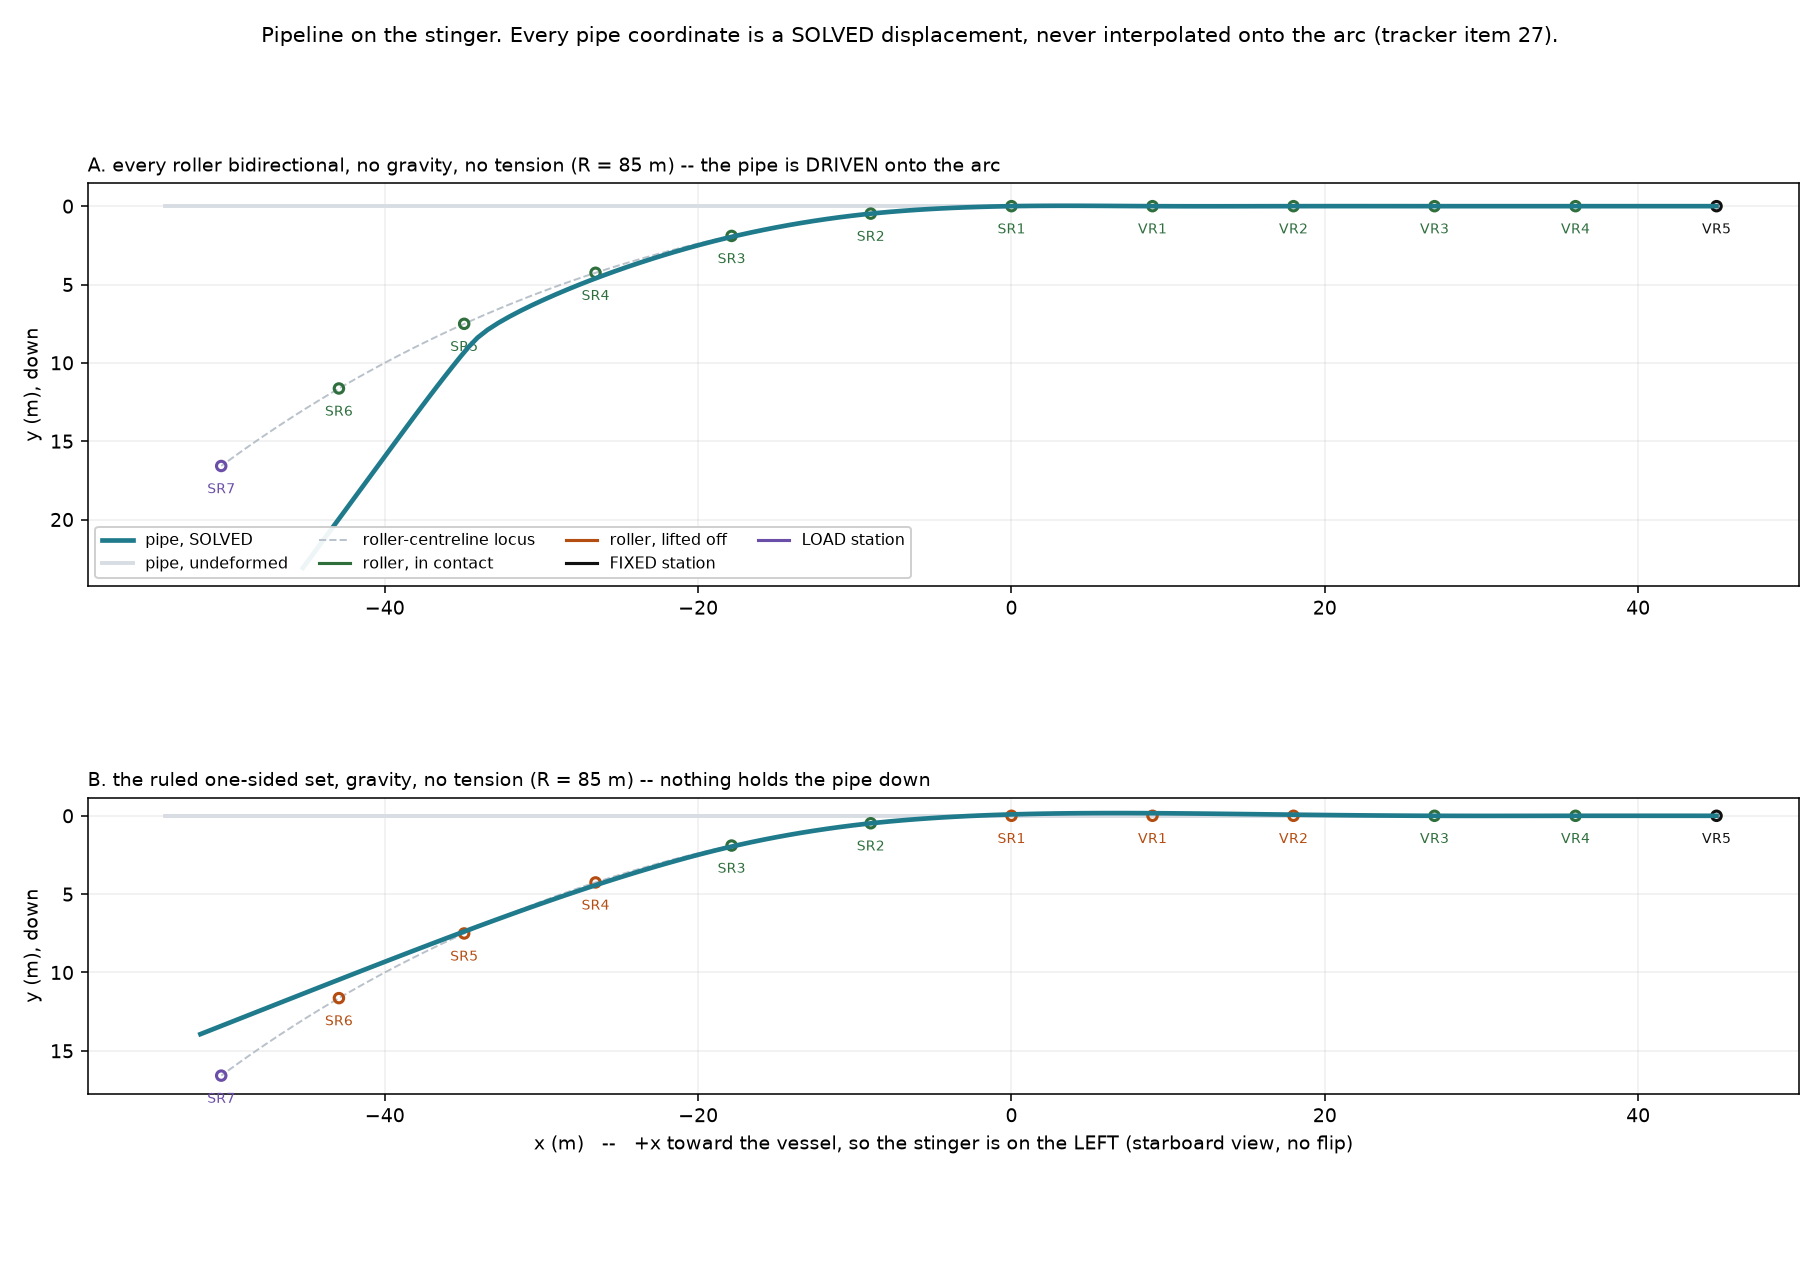
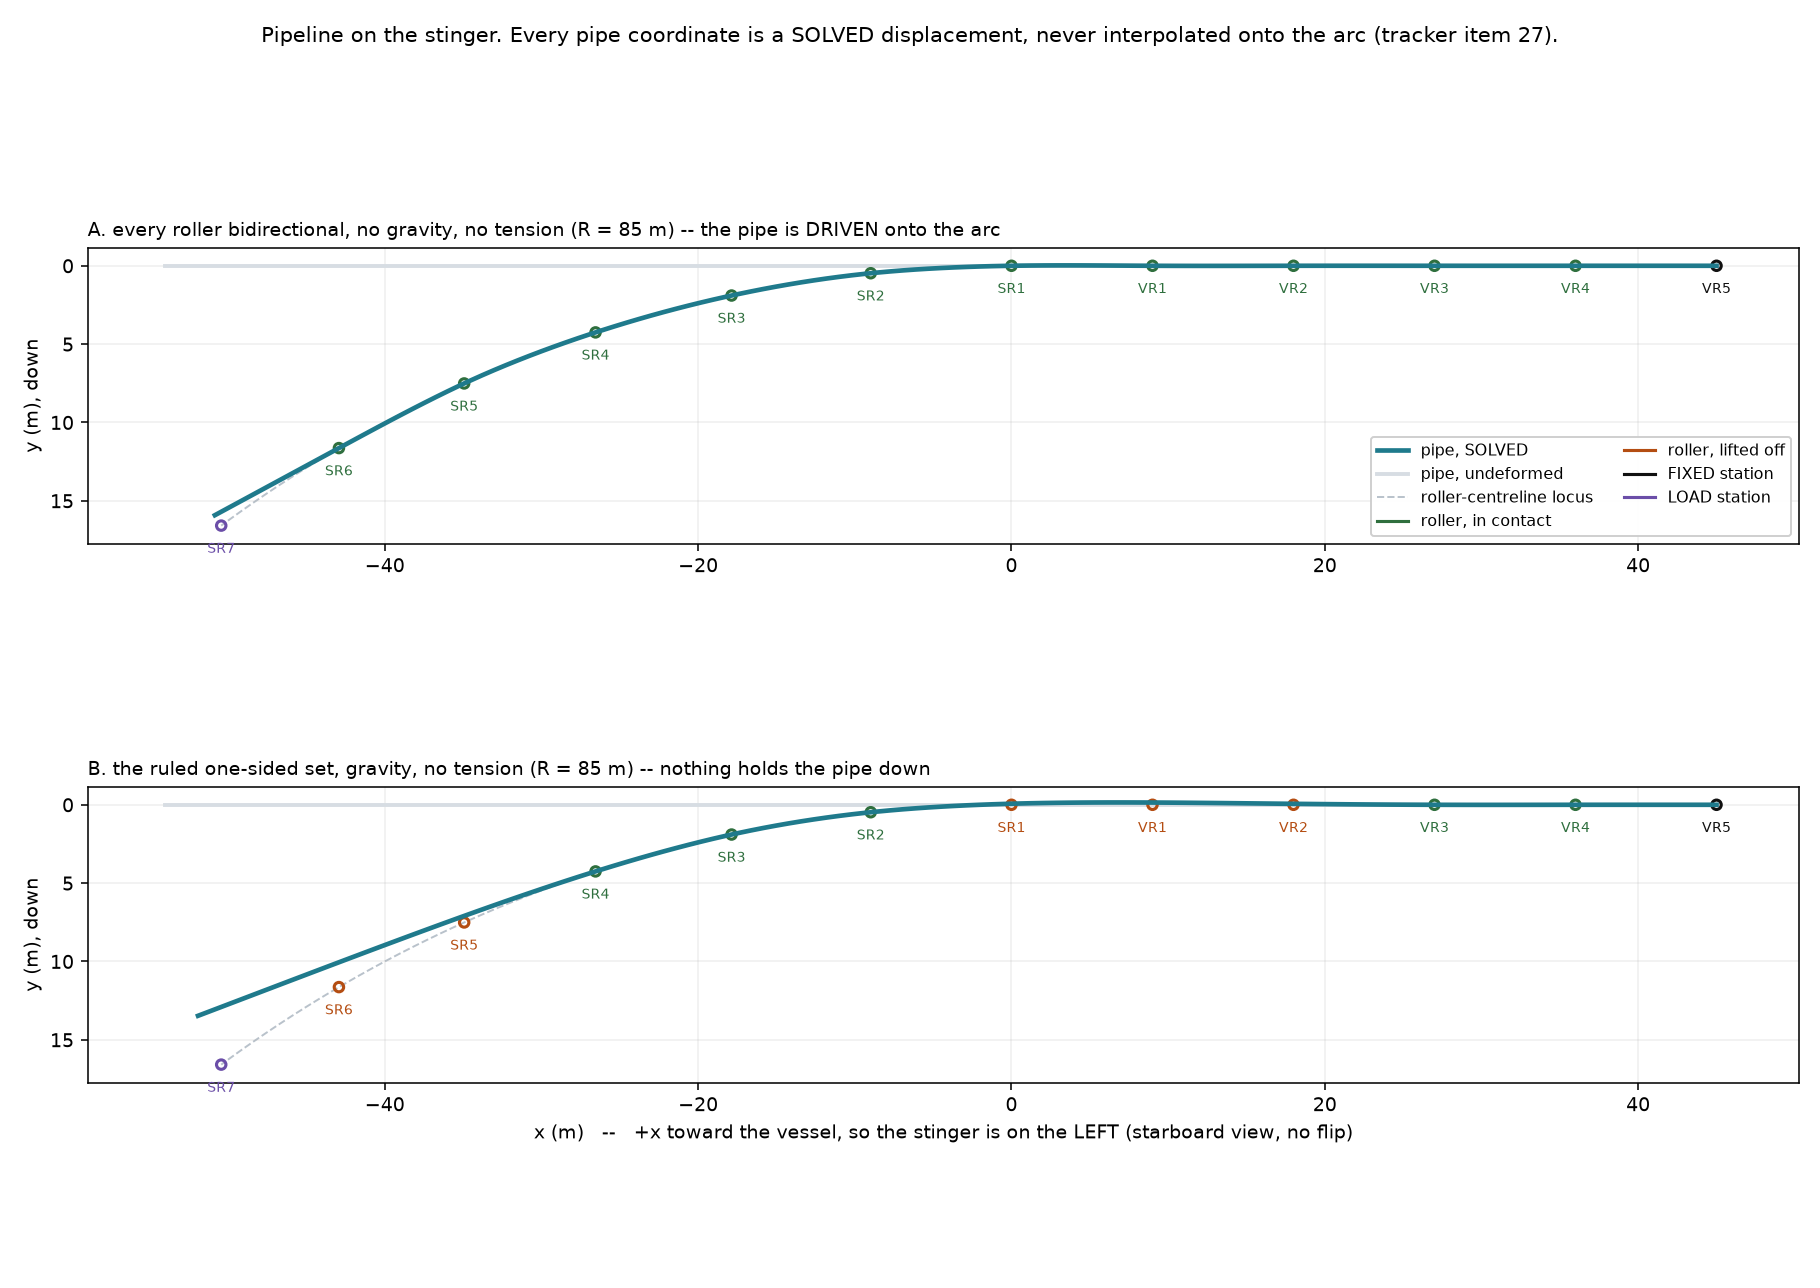
Fix L048: contact normals were world vectors on model DOFs
The stinger plot showed the material point that should sit at SR6 ending
up 5.18 m from the arc while every contact target was met to 1e-13 m.

`scene` speaks world (+x toward the vessel); `model`, `physics` and
`solve` speak model (s toward the stinger, x_world = -(s + u_s)).
`LayPath.normal` returns a world vector and `contact_targets` handed it
straight to the solver as coefficients on (u_s, u_y), so the s component
had the wrong sign. The reference program has no such boundary -- its
nodal coordinate IS world x -- so the formula was right there and wrong
here.

`dn` is invariant under the error, because both factors flip, which is
why the target matched to machine precision and every existing check
passed. Only a statement the constraint does not supply could catch it:
under arc-length positioning the material point at arc s must land at
path.position(s).

- physics/contact.py: `to_model_frame`, the one place a world vector
  becomes a model coefficient
- tests/test_passage.py: the arc-position check; fails by 0.037 m at SR2
  with the conversion removed
- tools/plot_stinger.py: prints the arc table beside the residual table
- BUILD_LESSONS: L047 rewritten (its first diagnosis was wrong), L048 added
- T5 spec 5b rewritten; the stale gravity-only table in 5 marked superseded

Gravity-only peak strain now falls with stinger radius as it must:
0.3365 / 0.2751 / 0.2099 % at R = 70 / 85 / 105, against
0.2617 / 0.2704 / 0.2428 % before. Amplification over D/2R is
[…]

diff --git a/rebuild/slay/physics/contact.py b/rebuild/slay/physics/contact.py
@@ -13,9 +13,21 @@ DERIVED, not copied. Node reference positions are set by ARC LENGTH (item
 16's ruling), so the straight reference pipe continues along the deck line
 and the material point at arc `s` must travel to `path.position(s)`:
 
-    u = (R*theta - R*sin(theta),  R*(1 - cos(theta)))
-    n = (-sin(theta), -cos(theta))
+    u = (-(R*theta - R*sin(theta)),  R*(1 - cos(theta)))
+    n = (sin(theta), -cos(theta))
     dn = u . n = R*(1 - cos - theta*sin)
+
+BOTH VECTORS ARE IN THE MODEL FRAME, and that is the whole of lesson L048.
+`scene` speaks WORLD (`x` toward the vessel); `model`, `physics` and `solve`
+speak MODEL (`s` toward the stinger, `x_world = -(s + u_s)`). A normal read
+off the Scene is a world vector, and these coefficients multiply MODEL DOFs,
+so the `s` component flips sign and `y` does not -- `to_model_frame` below,
+the single place it happens. The reference program had no such boundary: its
+nodal coordinate IS world `x` (`slay_sliding_v0_4.py:235`, "decreasing with
+node id"), so its `nx = -sin(theta)` was right there and is wrong here. `dn`
+is unchanged either way -- flipping both `u_s` and `n_s` leaves the product
+alone -- which is exactly why the error survived a target that matched to
+machine precision.
 
 The old formula `dn = arc_y * ny` is NOT a general projection. It is the same
 dot product with the `ux*nx` term silently zero, which held only because
@@ -81,7 +93,7 @@ class ContactTarget:
     station: str
     s_material: float          # m, arc position on the pipe
     theta: float               # rad, turn angle at the station
-    normal: tuple              # unit vector, roller -> pipe
+    normal: tuple              # unit vector, roller -> pipe, MODEL frame
     dn: float                  # m, target normal displacement
     dn_arc: float              # m, the arc term alone
     lift: float                # m, centreline lift from the contact surface
@@ -113,9 +125,22 @@ def arc_target_by_projection(path, s: float) -> float:
     if s <= 0.0:
         return 0.0
     x, y = path.position(s)
-    ux, uy = x - (-s), y - 0.0          # straight reference along the deck
-    nx, ny = path.normal(s)
+    # MODEL frame, deliberately -- this checks the vector the solver is
+    # handed, not a world-frame twin of it that agrees by cancellation.
+    ux, uy = -(x - (-s)), y - 0.0       # straight reference along the deck
+    nx, ny = to_model_frame(path.normal(s))
     return ux * nx + uy * ny
+
+
+def to_model_frame(n) -> tuple:
+    """A world normal from `scene` -> coefficients on MODEL DOFs.
+
+    `x_world = -(s + u_s)`, so a world `x` component is an `s` component
+    with the sign flipped; `y` is shared by both frames and is untouched.
+    Every contact coefficient crosses this boundary and crosses it here.
+    """
+    nx, ny = n
+    return (-nx, ny)
 
 
 def _bracket(nodes_s, s: float):
@@ -197,7 +222,8 @@ def contact_targets(model, scene, assembly=None, shift: float = 0.0,
         i_lo, i_hi, w_lo, w_hi = _bracket(nodes_s, s_mat)
         out.append(ContactTarget(
             station=st.name, s_material=s_mat, theta=theta,
-            normal=st.normal, dn=dn_arc + lift, dn_arc=dn_arc, lift=lift,
+            normal=to_model_frame(st.normal), dn=dn_arc + lift,
+            dn_arc=dn_arc, lift=lift,
             surface_owner=owner, n_lo=i_lo, n_hi=i_hi, w_lo=w_lo, w_hi=w_hi,
             one_sided=st.one_sided, radius=st.radius))
     return out

diff --git a/tools/plot_stinger.py b/tools/plot_stinger.py
@@ -95,7 +95,7 @@ def undeformed_xy(m):
             np.array([at[i].y for i in ids]))
 
 
-def report(sc, p, r, slots):
+def report(sc, p, r, slots, ms):
     """The numbers behind the picture -- printed, because a plot cannot be
     checked by eye and the question being asked is whether it is right."""
     print(f'  status {r.status}   increments {r.increments}   '
@@ -112,6 +112,26 @@ def report(sc, p, r, slots):
         if st.role is not StationRole.CONTACT:
             print(f'  {st.name:>8}{st.role.value:>9}'
                   f'{"":>9}{"":>11}{"":>11}{"":>11}{"":>8}')
+    arc_table(sc, p, r, ms)
+
+
+def arc_table(sc, p, r, ms):
+    """THE INDEPENDENT CHECK (L047). Node reference positions are set by arc
+    length, so the material point at arc `s` must land at `path.position(s)`.
+    That statement owes nothing to the contact residual, which reports on the
+    normal direction alone -- which is exactly how a mirrored normal (L048)
+    hid behind targets met to 1e-13 m."""
+    print(f'\n  {"station":>8}{"s_mat":>9}{"arc_x":>10}{"arc_y":>10}'
+          f'{"pipe_x":>10}{"pipe_y":>10}{"miss":>9}')
+    for t in p.contacts:
+        us = sum(w * r.U[dof(ms, i, 0)]
+                 for i, w in ((t.n_lo, t.w_lo), (t.n_hi, t.w_hi)))
+        uy = sum(w * r.U[dof(ms, i, 1)]
+                 for i, w in ((t.n_lo, t.w_lo), (t.n_hi, t.w_hi)))
+        x, y = world(t.s_material, 0.0, us, uy)
+        ax, ay = sc.path.position(t.s_material)
+        print(f'  {t.station:>8}{t.s_material:9.2f}{ax:10.3f}{ay:10.3f}'
+              f'{x:10.3f}{y:10.3f}{math.hypot(x - ax, y - ay):9.4f}')
 
 
 def plot(cases, out):
@@ -171,7 +191,7 @@ def plot(cases, out):
             ('roller, lifted off', '#b44d12', 1.6, '-'),
             ('FIXED station', '#111111', 1.6, '-'),
             ('LOAD station', '#6b4ea8', 1.6, '-'))],
-        fontsize=8, ncol=4, loc='lower left', framealpha=0.93)
+        fontsize=8, ncol=2, loc='lower right', framealpha=0.93)
     axes[-1].set_xlabel('x (m)   --   +x toward the vessel, so the stinger '
                         'is on the LEFT (starboard view, no flip)')
 
@@ -202,7 +222,7 @@ def main() -> int:
     ):
         print(f'\n=== {title} ===')
         c = case(R=R, **kw)
-        report(c[0], c[2], c[3], c[5])
+        report(c[0], c[2], c[3], c[5], c[4])
         built.append((title, c))
     plot(built, out)
     return 0

diff --git a/rebuild/tests/test_passage.py b/rebuild/tests/test_passage.py
@@ -29,7 +29,7 @@ from slay.scene.rollers import roller_stations      # noqa: E402
 from slay.scene.scene import Scene                  # noqa: E402
 from slay.solve import contact as ctc               # noqa: E402
 from slay.solve import passage                      # noqa: E402
-from slay.solve.kernel import mesh_of_problem       # noqa: E402
+from slay.solve.kernel import dof, mesh_of_problem  # noqa: E402
 
 
 def _scene(R=85.0, one_sided=None, n_sr=6, n_vr=3, spacing=8.0, elastic=16.0):
@@ -110,6 +110,36 @@ def test_slots_constrain_the_normal_only(arc_case):
         assert s.coeffs == pytest.approx(
             (t.w_lo * nx, t.w_lo * ny, t.w_hi * nx, t.w_hi * ny))
         assert math.hypot(nx, ny) == pytest.approx(1.0)
+
+
+def test_the_material_point_lands_on_its_own_arc_station(arc_case):
+    """THE CHECK L047 ASKED FOR, and the one that caught L048.
+
+    A contact slot holds the NORMAL component only, so a converged residual
+    is evidence about one direction. This is the independent statement:
+    node reference positions are set by ARC LENGTH, so the material point at
+    arc `s` must end up at `path.position(s)` -- position, both components,
+    no projection, nothing the constraint itself supplies.
+
+    It fails by METRES when the contact normal is a world vector applied to
+    model DOFs (L048): 2.21 m at SR6 with every target met to 1e-13. What is
+    left is real -- discrete supports 8 m apart let the pipe sag a couple of
+    millimetres between them, and it is bounded by span, not by R.
+    """
+    sc, p, r, _st, ms = arc_case
+    worst = 0.0
+    for t in p.contacts:
+        s_mat = t.s_material
+        us = sum(w * r.U[dof(ms, i, 0)]
+                 for i, w in ((t.n_lo, t.w_lo), (t.n_hi, t.w_hi)))
+        uy = sum(w * r.U[dof(ms, i, 1)]
+                 for i, w in ((t.n_lo, t.w_lo), (t.n_hi, t.w_hi)))
+        x, y = -(s_mat + us), uy
+        ax, ay = sc.path.position(s_mat)
+        miss = math.hypot(x - ax, y - ay)
+        assert miss < 5e-3, f'{t.station}: {miss:.4f} m off its own arc point'
+        worst = max(worst, miss)
+    assert worst > 1e-5, 'sag between supports is real; zero means no solve'
 
 
 # -- the active set --------------------------------------------------------

diff --git a/docs/modules/T5_solve_spec.md b/docs/modules/T5_solve_spec.md
@@ -190,6 +190,11 @@ and gravity alone.
 | 85 m | 0.2704% | 0.2391% | +13.1% | 4/10 |
 | 105 m | 0.2428% | 0.1935% | +25.5% | 5/10 |
 
+> **SUPERSEDED by §5b.** Those figures carried defect L048. The corrected
+> run is 0.3365 / 0.2751 / 0.2099, which does fall with R. The paragraph
+> below was right that they were "a different problem" and wrong about which
+> one.
+
 **Those are not a near-miss of the benchmark; they are a different problem.**
 Absolute strain barely moves with R (0.24–0.27%) when it should fall, and
 only four or five of ten rollers carry. With no tension the one-sided stinger
@@ -224,65 +229,101 @@ a well-defined piece of work, not a search.
 
 ---
 
-## 5b. The pipe is not sitting on the stinger — shown, 21 Sep 2026
+## 5b. The pipe was not sitting on the stinger — found and FIXED, 21 Sep 2026
 
 `tools/plot_stinger.py`, `docs/diagrams/stinger_pipe.png`. The first figure
 in this project that draws the SOLVED pipe. `draw_layout.py` renders the
 Scene and deliberately draws no pipe, because tracker item 27 forbids a
 drawing that derives the pipe's shape from the arc formula. Every coordinate
 here is a solved displacement, so the rule is satisfied and the figure is
-allowed — and the first thing it shows is a defect.
+allowed — and the first thing it showed was a defect.
 
-### Two facts that cannot both be comfortable
+### Two facts that could not both be comfortable
 
-Every contact target is met to **1e-13 m** — and the material point that
-should sit at SR6 ends up **5.2 m away from the arc**.
+Every contact target was met to **1e-13 m** — and the material point that
+should sit at SR6 ended up **5.18 m** from the arc. Under arc-length node positioning the material point at arc
+`s` must land at `path.position(s)`: bending is inextensible to first order,
+which is item 16's whole argument. Every row of that table should be zero.
 
-Pure-arc case, R = 85 m, all rollers bidirectional, no gravity, no tension.
-"Slide" is the miss resolved along the path tangent:
+Pure-arc case, R = 85 m, 9 m spacing, all rollers bidirectional, no gravity,
+no tension. Miss = distance from the material point to its own arc point:
 
-| station | arc (x, y) | solved (x, y) | miss dx | miss dy | slide |
-|---|---|---|---|---|---|
-| VR5 (fixed) | 45.000, 0.000 | 45.000, −0.000 | 0.000 | 0.000 | 0.000 |
-| VR1 | 9.000, 0.000 | 9.389, 0.002 | +0.389 | +0.002 | +0.389 |
-| SR1 | −0.000, 0.000 | 0.401, −0.007 | +0.401 | −0.007 | +0.401 |
-| SR3 | −17.866, 1.899 | −18.238, 2.047 | −0.372 | +0.148 | −0.333 |
-| SR4 | −26.548, 4.252 | −26.816, 4.711 | −0.268 | +0.459 | −0.111 |
-| SR5 | −34.933, 7.510 | −34.644, 8.980 | +0.289 | **+1.470** | +0.868 |
-| SR6 | −42.927, 11.636 | −40.014, 15.997 | **+2.913** | **+4.361** | **+4.717** |
-| SR7 (load) | −50.440, 16.584 | −45.226, 23.087 | +5.214 | +6.504 | +8.056 |
+| station | s | miss BEFORE | miss AFTER |
+|---|---|---|---|
+| VR1 | −9 | 0.0011 | 0.0001 |
+| SR1 | 0 | 0.0012 | 0.0003 |
+| SR2 | 9 | 0.0043 | 0.0012 |
+| SR3 | 18 | 0.0599 | 0.0005 |
+| SR4 | 27 | 0.3364 | 0.0008 |
+| SR5 | 36 | 1.3230 | 0.0005 |
+| SR6 | 45 | **5.1797** | **0.0023** |
 
-Under arc-length node positioning the material point at arc `s` is supposed
-to land at `path.position(s)` — bending is inextensible to first order, which
-is item 16's whole argument. Every row here should be zero. They are not, and
-the error grows monotonically down the stinger.
+(The `arc_table` the tool now prints. At the 8 m spacing the test fixture
+uses, the same case reads 2.212 m at SR6 before and 0.0027 m after.)
 
-### What that means
+### The cause: a world vector used as model coefficients
 
-The constraint being satisfied is **not the constraint that puts the pipe on
-the stinger**. Each slot fixes the NORMAL component of an interpolated
-displacement and leaves the tangent free — by design, because a material
-point genuinely slides ~2 m over the rollers by SR6. But with one restraint
-in the whole model (VR5, all DOF) and no tension, nothing makes the
-tangential position determinate. The free direction absorbs metres of motion
-and the residual stays at 1e-13 throughout, because it is measuring the one
-direction that is held.
+`scene` speaks WORLD — `+x` toward the vessel. `model`, `physics` and `solve`
+speak MODEL — `s` toward the stinger, `x_world = -(s + u_s)`.
+`LayPath.normal` returns a world vector, correctly for a Scene quantity, and
+`contact_targets` handed it straight to the solver as the coefficients
+multiplying `(u_s, u_y)`. **The `s` component had the wrong sign.**
 
-**The boundary conditions are the problem, and the benchmark's tension is
-part of them.** Lay tension at the catenary end is not decoration on this
-case: it is what pulls the pipe taut along the path and makes the tangential
-position determinate. Panel B of the figure shows the other half of the same
-story — with the ruled one-sided set and gravity but no tension, six of ten
-rollers lift off and the pipe bridges from SR3 straight past the stinger tip.
+The reference program has no such boundary to cross: its nodal coordinate IS
+world `x` (`slay_sliding_v0_4.py:235`, *"decreasing with node id"*), so its
+`nx = -sin(theta)` is right there. Copied across the frame change, it is
+wrong here.
 
-This is the same conclusion as §5's load-path finding, reached independently
-and now visible rather than argued. It does not change the next task; it
-raises its priority and says what to check when the staged steps land: every
-row of the table above should go to zero.
+**Why it survived every check until this one.** `dn` is invariant under the
+error — flipping both `u_s` and `n_s` leaves the dot product alone — so the
+target was right, and a constraint enforcing the *wrong* normal to 1e-13 m
+looks exactly like a constraint enforcing the right one. The residual reports
+on the constrained direction and nothing else. Only a statement the
+constraint does not supply could catch it, and the arc position is that
+statement.
+
+The first diagnosis written in this section was **wrong**: it read the miss
+as tangential indeterminacy for want of lay tension, and argued the boundary
+conditions were incomplete. The fix carries no tension and the miss drops to
+2.7 mm. Recorded as L047 (the check) and L048 (the defect).
+
+Fix: `physics.contact.to_model_frame`, the one named place a world vector
+becomes a model coefficient. Guarded by
+`test_the_material_point_lands_on_its_own_arc_station`, which fails by
+0.037 m at SR2 with the conversion removed.
+
+### What the figure shows now
+
+Panel A — all rollers bidirectional, no gravity, no tension — the solved pipe
+lies on the roller-centreline locus, covering it. Panel B — the ruled
+one-sided set with gravity and no tension — VR2, VR1, SR1, SR5 and SR6 lift
+off, and **every nonzero miss in panel B is at a released roller**. That is
+consistent physics rather than a defect: a one-sided roller cannot pull, so
+with no tension the pipe hangs inside the arc past SR4. It is also the second
+half of §5's argument for why the benchmark applies 120 MT.
+
+### What it changed in the numbers
+
+Gravity only, no tension, 9 m spacing, peak Phase-1 strain:
+
+| R | BEFORE | AFTER | analytic `D/2R` | AFTER over analytic |
+|---|---|---|---|---|
+| 70 m | 0.2617% | **0.3365%** | 0.2903% | +15.9% |
+| 85 m | 0.2704% | **0.2751%** | 0.2391% | +15.1% |
+| 105 m | 0.2428% | **0.2099%** | 0.1935% | +8.5% |
+
+Before the fix, absolute strain barely moved with stinger radius and the
+amplification ran −9.8 / +13.1 / +25.5% — §5 called that "not a near-miss of
+the benchmark; a different problem", and it was. **After the fix strain falls
+with R as it must**, and the amplification is +16 / +15 / +9%, in the band
+the old program occupies against Abaqus (§4).
+
+The tension cases still fail on the first increment. §5's load-path finding
+stands untouched and is still the next task.
 
 ---
 
-## 5. Known case-construction gaps
+## 6. Known case-construction gaps
 
 Separate from the baseline question, and to be settled before any M1 number
 is quoted:
@@ -305,3 +346,4 @@ is quoted:
 | Date | Action |
 |---|---|
 | 21 Sep 2026 | T5 solver built and its machinery verified — contact targets met to 1e-13 m including 8.897 m at SR6, active set unit-tested, loops bounded, J2 state carried. M1 **blocked**: the §6 plain-pipe baseline does not reproduce from the reference code under any of 12 configurations, and no plain-pipe sliding reference exists at all. Raised as decision D5 with three options and a recommendation. Three case-construction gaps recorded. |
+| 21 Sep 2026 | **L048 found and fixed.** `tools/plot_stinger.py` drew the solved pipe for the first time; the material point that should sit at SR6 was 5.18 m off its own arc point while every contact target was met to 1e-13 m. Cause: `LayPath.normal` is a WORLD vector and `contact_targets` used it as coefficients on MODEL DOFs, so the `s` component had the wrong sign; `dn` is invariant under that error, which is why every existing check passed. Fixed with `physics.contact.to_model_frame` and guarded by `test_the_material_point_lands_on_its_own_arc_station`. Gravity-only peak strain now falls with stinger radius — 0.3365 / 0.2751 / 0.2099% at R = 70 / 85 / 105 against 0.2617 / 0.2704 / 0.2428% before — and the amplification over `D/2R` sits at +16 / +15 / +9%. The §5b diagnosis written earlier the same day (tangential indeterminacy for want of tension) was wrong and is marked as such. Tension cases still fail on the first increment; staged load steps remain the next task. |
